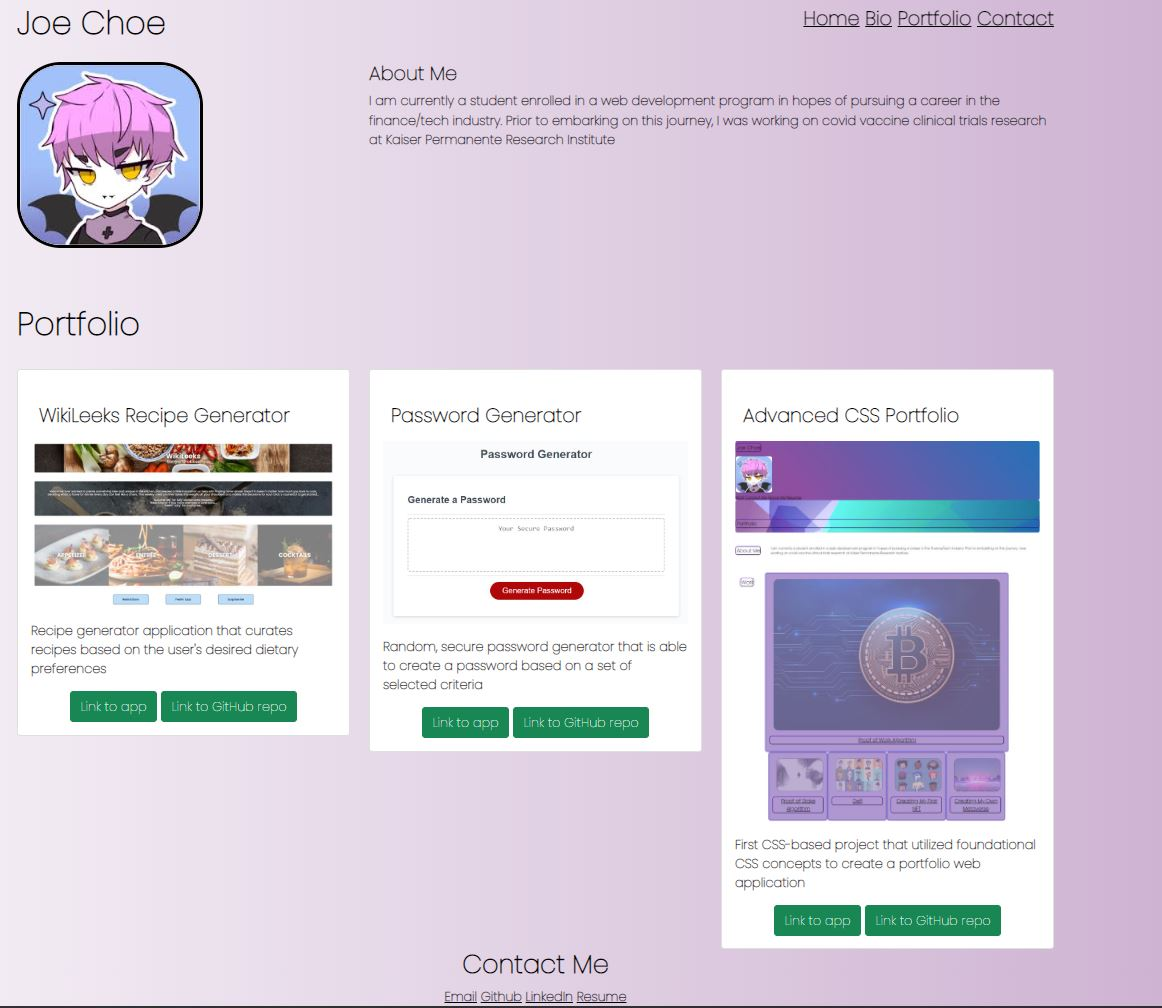
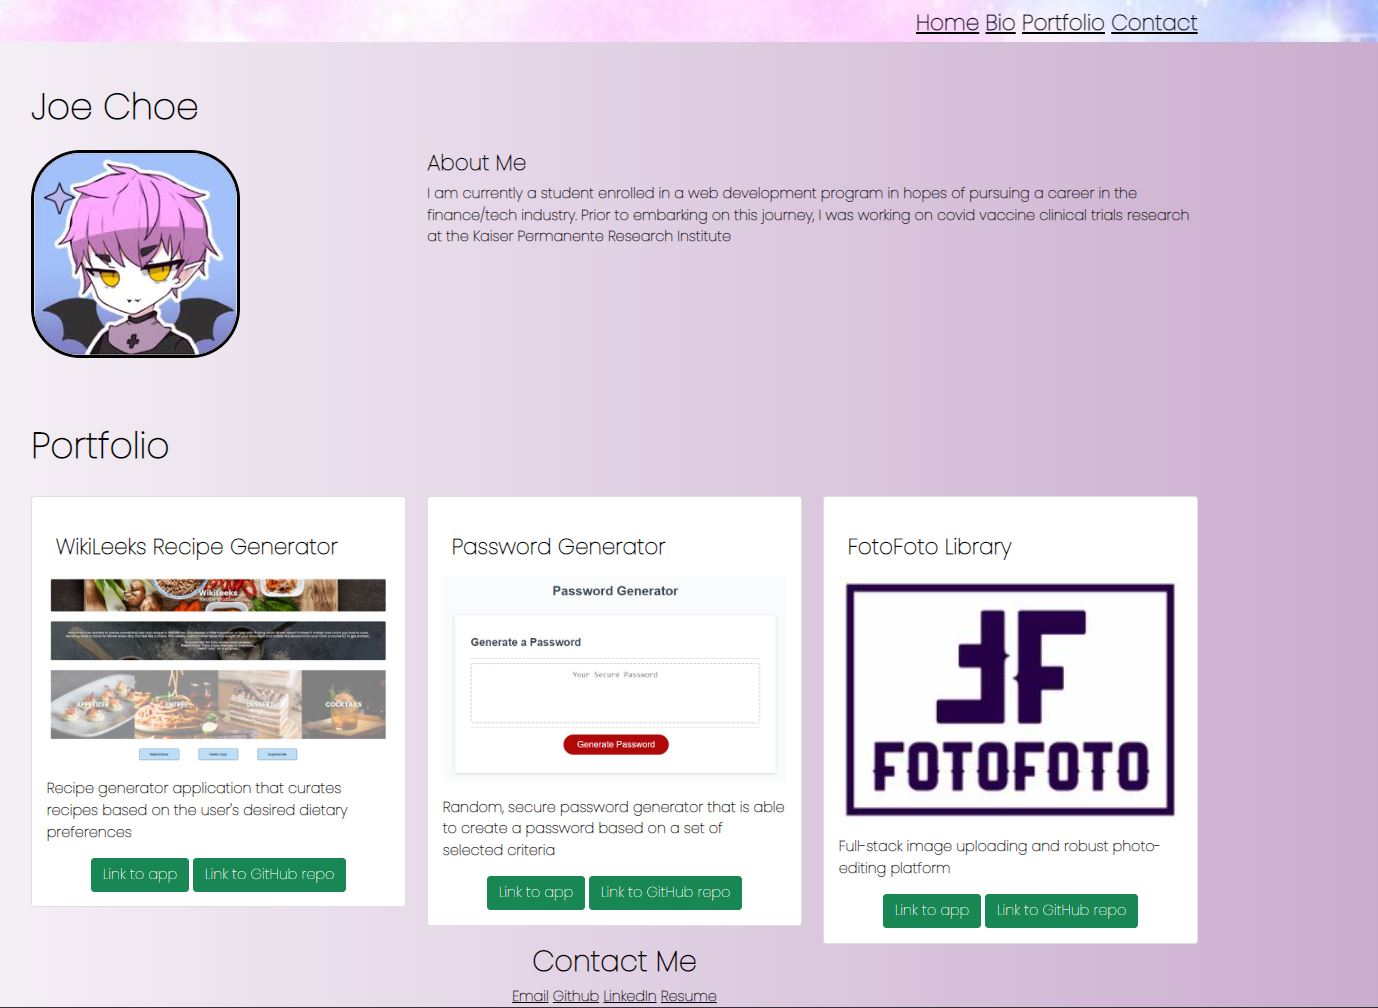
updated index.html file with project 2, updated readme

diff --git a/index.html b/index.html
@@ -51,7 +51,7 @@
                 </div>
                 <div class="col-lg-8" id="bio">
                     <h4><strong>About Me</strong></h4>
-                    <p> I am currently a student enrolled in a web development program in hopes of pursuing a career in the finance/tech industry. Prior to embarking on this journey, I was working on covid vaccine clinical trials research at Kaiser Permanente
+                    <p> I am currently a student enrolled in a web development program in hopes of pursuing a career in the finance/tech industry. Prior to embarking on this journey, I was working on covid vaccine clinical trials research at the Kaiser Permanente
                         Research Institute
                     </p>
                 </div>
@@ -96,13 +96,13 @@
                 <div class="col-lg-4 mt-4">
                     <div class="card portfolioText">
                         <div class="card-body">
-                            <h4 class="card-title mt-3"><strong>Advanced CSS Portfolio</strong></h4>
-                            <img class="card-img-top" src="./Images/Portfolio Screenshot.JPG" alt="screenshot" style="width:100%">
-                            <p class="card-text mt-3">First CSS-based project that utilized foundational CSS concepts to create a portfolio web application
+                            <h4 class="card-title mt-3"><strong>FotoFoto Library</strong></h4>
+                            <img class="card-img-top" src="./Images/FotofotoLogo.jpg" alt="screenshot" style="width:100%">
+                            <p class="card-text mt-3">Full-stack image uploading and robust photo-editing platform
                             </p>
                             <div class="text-center">
-                                <a href="https://jchoe125.github.io/Advanced-CSS--Portfolio/" class="btn btn-success">Link to app</a>
-                                <a href="https://github.com/jchoe125/Advanced-CSS--Portfolio" class="btn btn-success">Link to GitHub repo</a>
+                                <a href="https://fotofotolibrary.herokuapp.com/" class="btn btn-success">Link to app</a>
+                                <a href="https://github.com/jchoe125/FOTOFOTO" class="btn btn-success">Link to GitHub repo</a>
                             </div>
                         </div>
                     </div>
